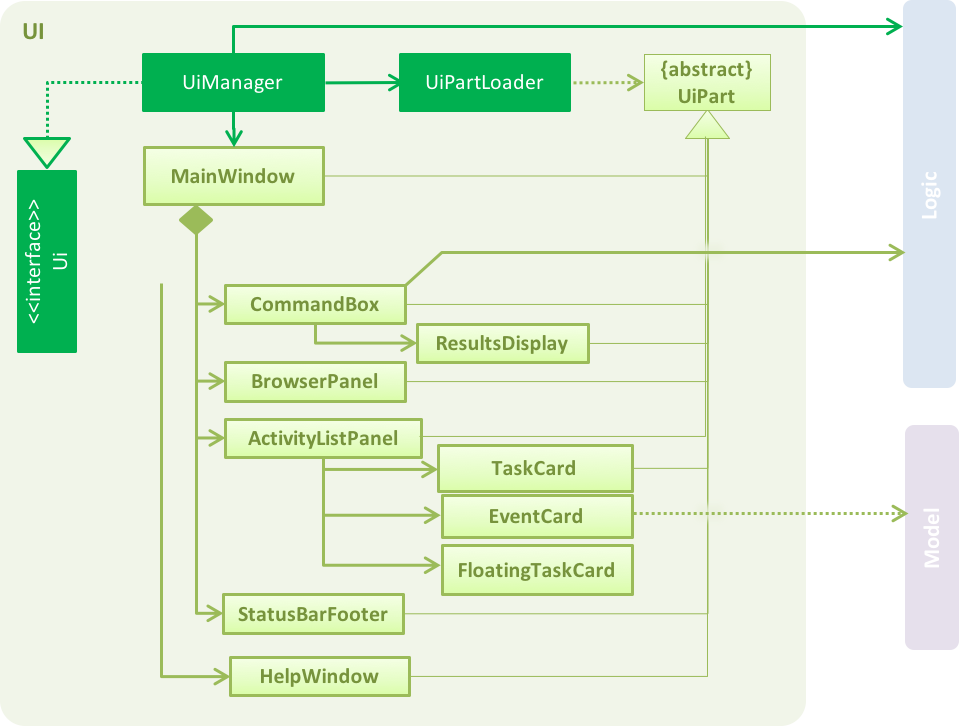
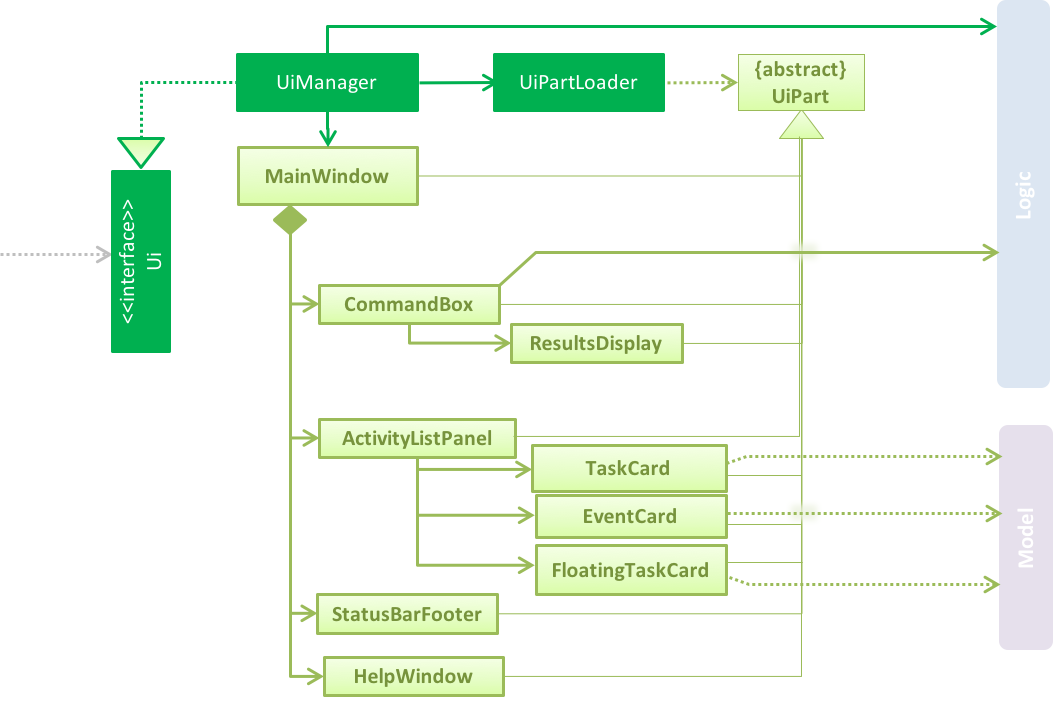
Updated developer guide for UI component and parts of logic component

diff --git a/docs/DeveloperGuide.md b/docs/DeveloperGuide.md
@@ -1,7 +1,7 @@
 # Introduction
 
 
-[//]: # (@@author A0139515A)
+[//]: # (@@author A0146752B)
 
 Menion is a simple activity manager for students to track their activities so they can better manage their schedule. It is a command line interface that minimizes mouse usage and focuses on keyboard commands.
 
@@ -113,6 +113,7 @@ being saved to the hard disk and the status bar of the UI being updated to refle
 
 The sections below give more details of each component.
 
+[//]: # (@@author A0139515A)
 ### UI component
 
 <img src="images/UiClassDiagram.png" width="800"><br>
@@ -121,22 +122,31 @@ The sections below give more details of each component.
 API : [`Ui.java`](../src/main/java/seedu/menion/ui/Ui.java)
 
 The UI consists of a `MainWindow` that is made up of parts. 
-For example, `CommandBox`, `ResultDisplay`, `AcitivtyListPanel`, `StatusBarFooter`, `BrowserPanel` etc... All these, including the `MainWindow`, inherit from the abstract `UiPart` class and they can be loaded using the `UiPartLoader`.
+For example, `CommandBox`, `ResultDisplay`, `ActivityListPanel`, `StatusBarFooter` etc... All these, including the `MainWindow`, inherit from the abstract `UiPart` class and they can be loaded using the `UiPartLoader`.
+
+`ActivityListPanel` consists of three different activities lists whhich are `taskViewList`, `eventViewList` and `floatingTaskViewList`. Activities in each list is displayed `TaskCard`, `EventCard` and `FloatingTaskCard` respectively.
 
 The `UI` component uses the JavaFx UI framework. The layout of these UI parts are defined in matching `.fxml` files that are in the `src/main/resources/view` folder.<br>
- For example, the layout of the [`MainWindow`](../src/main/java/seedu/menion/ui/MainWindow.java) is specified in [`MainWindow.fxml`](../src/main/resources/view/MainWindow.fxml)
+ For example, the layout of the [`MainWindow`](../src/main/java/seedu/menion/ui/MainWindow.java) is specified in [`MainWindow.fxml`](../src/main/resources/view/MainWindow.fxml)<br>
+ `SceneBuilder` is the main tool that is used to create `.fxml` files.
+
+
+<img src="images/SDforModifyingStoragePath.png" width="800"><br>
+> Diagram 6: Sequence diagram for modifying storage path<br>
 
 The `UI` component
 
-* executes user commands using the `Logic` component.
-* binds itself to some data in the `Model` so that the UI can auto-update when data in the `Model` change.
-* responds to events raised from various parts of the App and updates the UI accordingly.
+* executes user commands using the `Logic` component by passing in strings that are captured by `CommandBox`
+* binds itself to some data in the `Model` so that the UI can auto-update when data in the `Model` change
+* retrieves the three different lists from `Logic` at the start of the session
+* responds to events raised from various parts of the App and updates the UI accordingly. e.g. `ModifyStoragePathCommand` raise an event that leads to a pop up so as to show a message to the user (refer to diagram 6)
 
+[//]: # (@@author)
 
 ### Storage component
 
 <img src="images/StorageClassDiagram.png" width="800"><br>
-> Diagram 6: Storage component<br>
+> Diagram 7: Storage component<br>
 
 API : [`Storage.java`](../src/main/java/seedu/menion/storage/Storage.java)
 
@@ -149,7 +159,7 @@ The `Storage` component
 ### Logic component
 
 <img src="images/LogicClassDiagram.png" width="800"><br>
-> Diagram 7: Logic component <br>
+> Diagram 8: Logic component <br>
 
 API : [`Logic.java`](../src/main/java/seedu/menion/logic/Logic.java)
 
@@ -157,13 +167,22 @@ API : [`Logic.java`](../src/main/java/seedu/menion/logic/Logic.java)
 The command execution can affect the `Model` (e.g. adding an Activity) and/or raise events. The result of the command execution is encapsulated as a `CommandResult` object which is passed back to the `Ui`.
 
 <img src="images/DeletePersonSdForLogic.png" width="800"><br>
-> Diagram 8: Sequence Diagram<br>
+> Diagram 9: Sequence Diagram<br>
 
-Given above is the Sequence Diagram for interactions within the `Logic` component for the `execute("delete task 1")`API call.<br><br>
+Given above is the Sequence Diagram for interactions within the `Logic` component for the `execute("delete task 1")`API call.
+
+[//]: # (@@author A139515A)
+
+Under logic command, there are several commands that make use of `Model` for execution:
+
+* `UndoCommand` and `RedoCommand` make use of two stacks in `Model` which stores different states of `ReadOnlyActivityManager`. When there is a command that causes modification to `ReadOnlyActivityManager`, a copy of the state of `ReadOnlyActivityManager` before the modification will be pushed into the undo stack. Calling `UndoCommand` will cause a pop from the undo stack and the state will be pushed into the redo stack. Similarly, calling `RedoCommand` will cause a pop from redo stack and the state will be pushed back into the undo stack. This allows the application to jump around different states of `ReadOnlyActivityManager`.
+
+[//]: # (@@author)
+
 ### Model component
 
 <img src="images/ModelClassDiagram.png" width="800"><br>
-> Diagram 9: Model component<br>
+> Diagram 10: Model component<br>
 
 *API* : [`Model.java`](../src/main/java/seedu/menion/model/Model.java)
 
